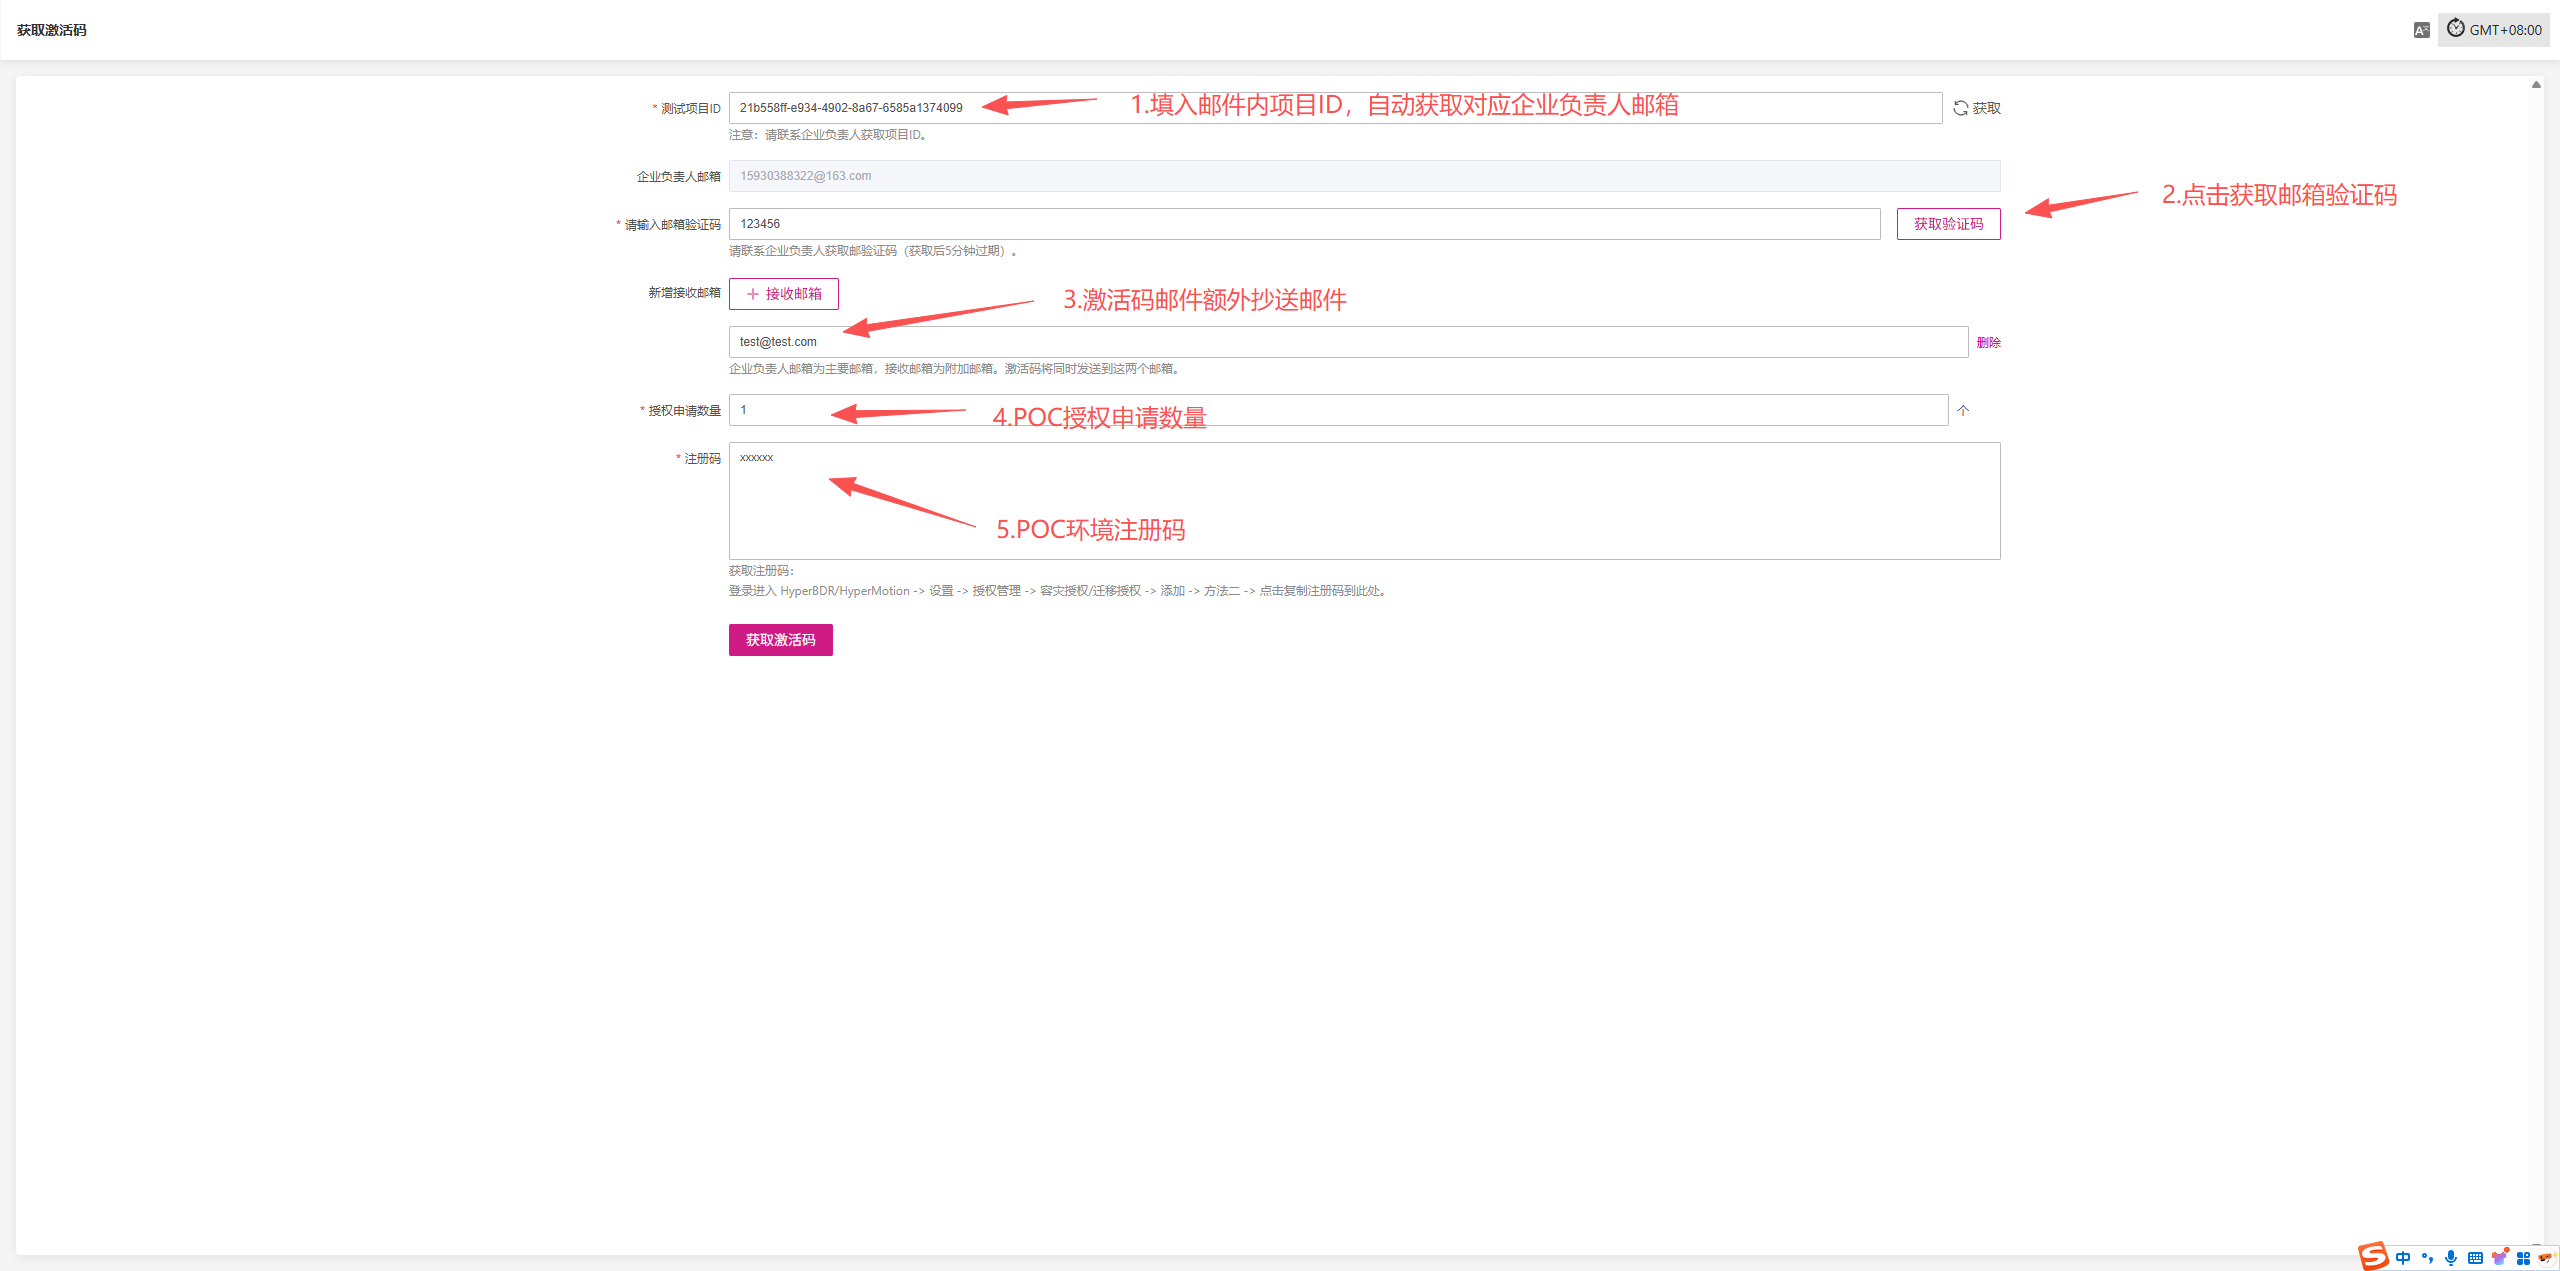
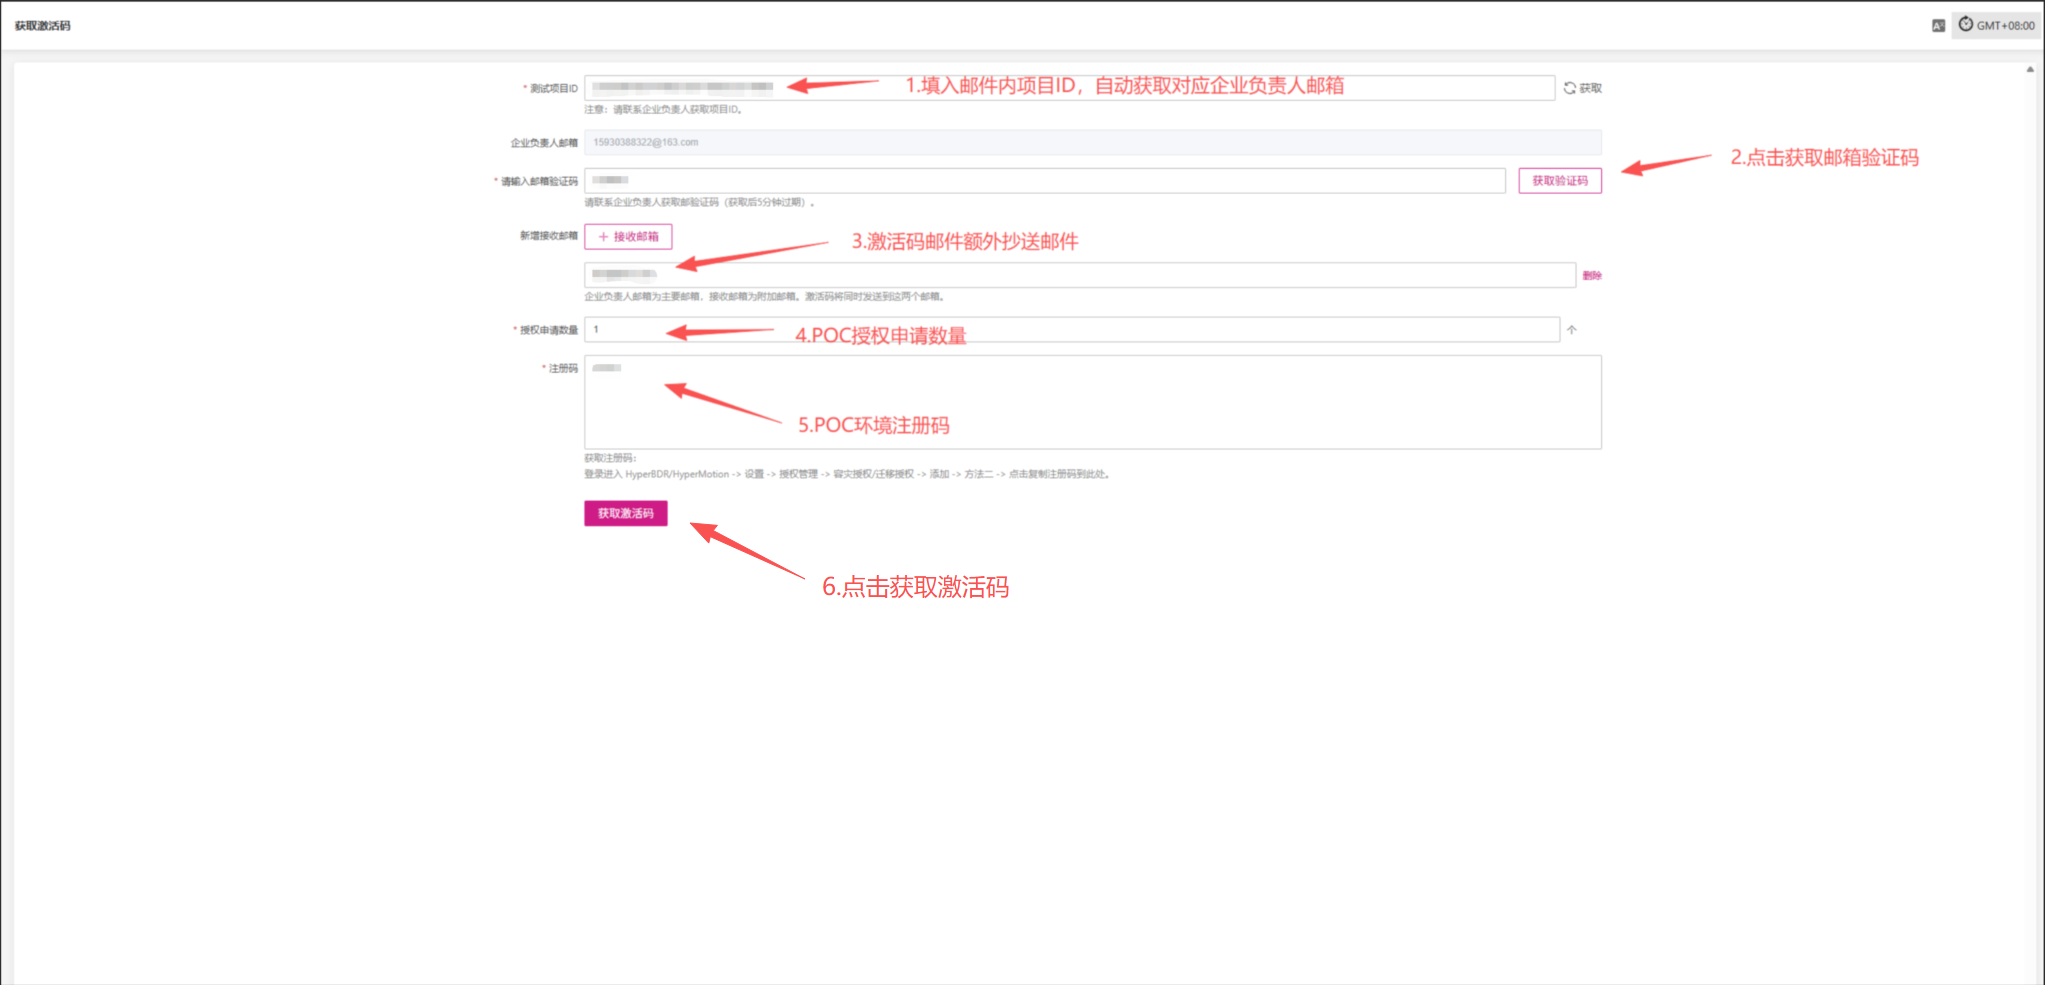
Optimize the POC Authorization Guidance Process

diff --git a/src/userguide/poc-license/poc-automatic-license.md b/src/userguide/poc-license/poc-automatic-license.md
@@ -1,27 +1,39 @@
 # POC License Application Guide
 
-1. Open the POC authorization notification email, record the **Project ID**, and click **[Activate POC Now]** to go to the license activation page.
+1. **Receive POC Authorization Email**
+
+   Open the POC authorization notification email, record the **Project ID**, and click **[Activate POC Now]** to go to the license activation page.
 
    ![](./images/poc-license-application-guide-1.png)
 
-2. License Activation Page  
-   1. Enter the **Project ID** from the email into the “Test Project ID” field. The system will automatically retrieve the corresponding enterprise administrator email.
+2. **License Activation Page**
 
-      ::: tip 💡 Tip
-      Make sure the email address is correct before proceeding.
-      :::
+   **2.1 Enter the Project ID**  
+   Enter the Project ID from the email into the “Trial Project ID” field.  
+   The system will automatically retrieve the enterprise administrator email.
 
-   2. Click **[Get Code]** and contact the enterprise administrator to obtain the code.
-   3. If you need to send the activation email to another address, add a new recipient email.
-   4. Enter the **number of POC licenses** you want to apply for.
-   5. Enter the **POC environment registration code**.
+   ::: tip 💡 Tip
+   Make sure the retrieved email address is correct before proceeding.
+   :::
 
-      ::: tip 💡 Tip
-      If you request **disaster recovery** or **failback authorization**, the **Failback Registration Code** field will appear automatically.
-      :::
+   **2.2 Click [Get Code]**  
+   Contact the enterprise administrator to obtain the code.
 
-   ![](./images/poc-license-application-guide-2.png)
+   **2.3 Add additional recipient email**  
+   If you need to send the activation email to another address, add a new recipient email.
 
-3. Overall Activation Process
+   **2.4 Enter the number of POC licenses**  
+   Enter how many POC licenses you want to apply for.
 
-   ![](./images/poc-license-application-guide-3.png)
+   **2.5 Enter the POC registration code**  
+   ::: tip 💡 Tip
+   If disaster recovery or failback authorization is required,  
+   the **Failback Registration Code** field will appear automatically.
+   :::
+   **2.6 Click [Generate License]**  
+   ::: tip 💡 Tip
+   For standalone products, you need to obtain the activation code from the authorization notification email and manually enter it into the product to complete activation.  
+   For SaaS products, the authorization is usually activated automatically; if it is not, you can also obtain the activation code from the authorization notification email and manually enter it into the SaaS product to complete activation.
+   :::
+
+      ![](./images/poc-license-application-guide-2.png)

diff --git a/src/zh/userguide/poc-license/poc-automatic-license.md b/src/zh/userguide/poc-license/poc-automatic-license.md
@@ -1,27 +1,40 @@
 # POC授权申请指南
 
-1. 打开 POC 授权通知邮件，记录邮件中的 **项目 ID**，并点击【立即激活 POC】按钮，跳转至授权激活页面。
+1. **收到 POC 授权邮件**
+
+    打开 POC 授权通知邮件，记录邮件中的 **项目 ID**，并点击【立即激活 POC】按钮，跳转至授权激活页面。
 
    ![](./images/poc-license-application-guide-1.png)
 
-2. 授权激活页面  
-   1. 在「测试项目 ID」输入框中填入邮件内的项目 ID，系统将自动获取对应的企业负责人邮箱。
+2. **授权激活页面**
+   
+   **2.1 输入项目ID**  
+   在「测试项目 ID」输入框中填入邮件内的项目 ID，系统将自动获取对应的企业负责人邮箱。
 
-      ::: tip 💡 提示
-      请务必核实邮箱地址是否正确，确认无误后再执行后续操作。
-      :::
+   ::: tip 💡 提示
+   请务必核实邮箱地址是否正确，确认无误后再执行后续操作。
+   :::
 
-   2. 点击【获取验证码】，并联系企业负责人获取对应的验证码。
-   3. 如需将激活码邮件发送至其他邮箱，可添加新的接收邮箱地址。
-   4. 填写本次申请的 **POC 授权数量**。
-   5. 填入 **POC 环境注册码**。
+   **2.2 点击 [获取验证码]**  
+   点击【获取验证码】，并联系企业负责人获取对应的验证码。
 
-      ::: tip 💡 提示
-      若需申请 **容灾** 或 **回切授权**，页面中将自动显示相应的回切注册码输入框。
-      :::
+   **2.3 添加额外的收件人邮箱**  
+   如需将激活码邮件发送至其他邮箱，可添加新的接收邮箱地址。
+
+   **2.4 输入POC授权数量**  
+   填写本次申请的 **POC 授权数量**。
+
+   **2.5 填入POC注册码**  
+   填入 **POC 环境注册码**。
+
+   ::: tip 💡 提示
+   若需申请 **容灾** 或 **回切授权**，页面中将自动显示相应的回切注册码输入框。
+   :::
+
+   **2.6 点击 [获取激活码]**  
+   ::: tip 💡 Tip
+   对于单机版产品，需要从授权通知邮件中获取激活码，并手动复制到产品中完成激活。  
+   对于 SaaS 产品，授权通常会自动完成激活；如果未自动激活，也可以从授权通知邮件中获取激活码，手动输入到 SaaS 产品中完成激活。
+   :::
 
    ![](./images/poc-license-application-guide-2.png)
-
-3. 整体激活流程
-
-   ![](./images/poc-license-application-guide-3.png)
